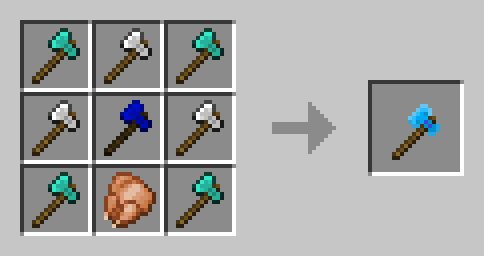
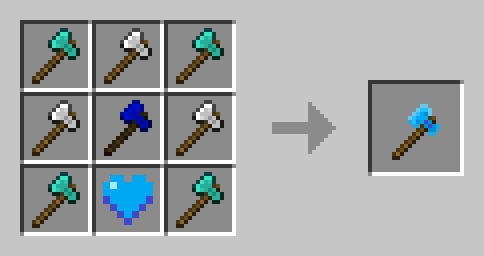
added warden's heart texture

Changed region(s): [[0.186, 0.6562, 0.3409, 0.9062]]

diff --git a/README.MD b/README.MD
@@ -16,7 +16,7 @@ This is unfinished, there is a lot of vanilla textures for placeholders, and a b
 
 * Craft some deactivated tools with warden scales you mine.
 
-* Activate your tools like this (I have cooked chicken as a placeholder for the warden's heart, which is not obtainable yet):
+* Activate your tools like this:
 
 ![p](https://raw.githubusercontent.com/kramsdell123/deepdark-mod/main/images/warden_pickaxe.png)
 
